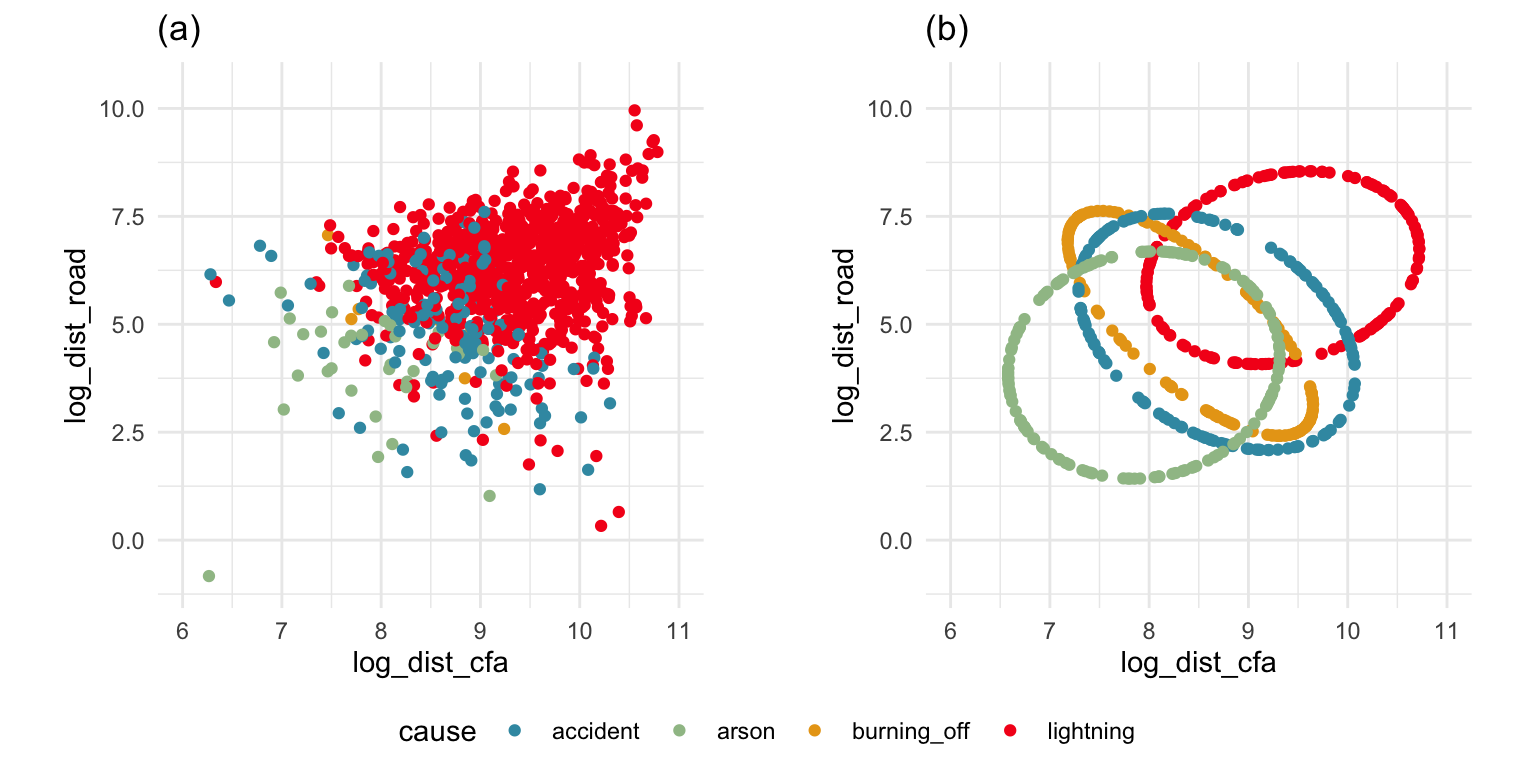
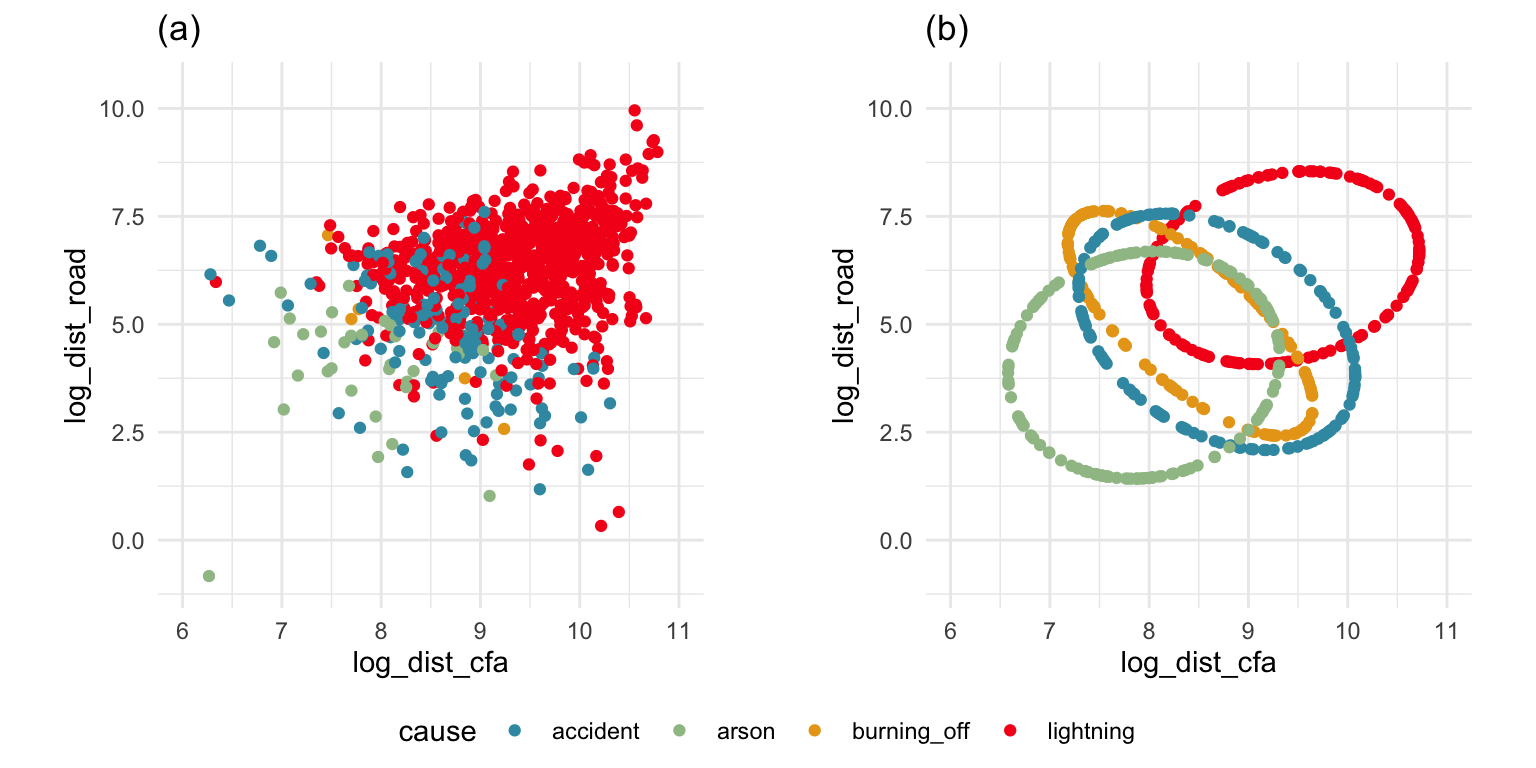
lda chapter processed

diff --git a/docs/LDA.html b/docs/LDA.html
@@ -218,7 +218,7 @@ div.csl-indent {
           <li class="sidebar-item">
   <div class="sidebar-item-container"> 
   <a href="./brush-and-spin.html" class="sidebar-item-text sidebar-link">
- <span class="menu-text"><span class="chapter-number">7</span>&nbsp; <span class="chapter-title">Spin and brush approach</span></span></a>
+ <span class="menu-text"><span class="chapter-number">7</span>&nbsp; <span class="chapter-title">Spin-and-brush approach</span></span></a>
   </div>
 </li>
           <li class="sidebar-item">
@@ -390,7 +390,7 @@ div.csl-indent {
   
 
 </header><p>Linear discriminant analysis (LDA) dates to the early 1900s. It’s one of the most elegant and simple techniques for both modeling separation between groups, and as an added bonus, producing a low-dimensional representation of the differences between groups. LDA has two strong assumptions: the groups are samples from multivariate normal distributions, and each have the same variance-covariance. If the latter assumption is relaxed, a slightly less elegant solution results from quadratic discriminant analysis.</p>
-<p>Useful explanations can be found in <span class="citation" data-cites="VR02">Venables &amp; Ripley (<a href="references.html#ref-VR02" role="doc-biblioref">2002a</a>)</span> and <span class="citation" data-cites="Ri96">Ripley (<a href="references.html#ref-Ri96" role="doc-biblioref">1996</a>)</span>. A good general treatment of parametric methods for supervised classification can be found in <span class="citation" data-cites="JW02">R. A. Johnson &amp; Wichern (<a href="references.html#ref-JW02" role="doc-biblioref">2002</a>)</span> or another similar multivariate analysis textbook. It’s also useful to know that hypothesis testing for the difference in multivariate means using multivariate analysis of variance (MANOVA) has similar assumptions to LDA. Also model-based clustering assumes that each cluster arises from a multivariate normal distribution, and is related to LDA. The methods described here can be used to check these assumptions when applying these methods, too.. </p>
+<p>Useful explanations can be found in <span class="citation" data-cites="VR02">Venables &amp; Ripley (<a href="references.html#ref-VR02" role="doc-biblioref">2002a</a>)</span> and <span class="citation" data-cites="Ri96">Ripley (<a href="references.html#ref-Ri96" role="doc-biblioref">1996</a>)</span>. A good general treatment of parametric methods for supervised classification can be found in <span class="citation" data-cites="JW02">R. A. Johnson &amp; Wichern (<a href="references.html#ref-JW02" role="doc-biblioref">2002</a>)</span> or another similar multivariate analysis textbook. It’s also useful to know that hypothesis testing for the difference in multivariate means using multivariate analysis of variance (MANOVA) has similar assumptions to LDA. Also model-based clustering assumes that each cluster arises from a multivariate normal distribution, and is related to LDA. The methods described here can be used to check these assumptions when applying these methods, too. </p>
 <div class="info">
 <p>Because LDA is a parametric model it is important to check that the assumptions are reasonable:</p>
 <ul>
@@ -407,11 +407,11 @@ div.csl-indent {
 <p><span class="math display">\[W =
 \sum_{k=1}^g\sum_{i=1}^{n_k}
 (X_{ki}-\bar{X}_k)(X_{ki}-\bar{X}_k)^\top\]</span></p>
-<p>which measures the variation of values around each class mean. The linear discriminant space is generated by computing the eigenvectors (canonical coordinates) of <span class="math inline">\(W^{-1}B\)</span>, and this is the <span class="math inline">\((g-1)\)</span>-D space where the group means are most separated with respect to the pooled variance-covariance.</p>
+<p>which measures the variation of values around each class mean. The linear discriminant space is generated by computing the eigenvectors (canonical coordinates) of <span class="math inline">\(W^{-1}B\)</span>, and this is the <span class="math inline">\((g-1)\)</span>-D space where the group means are most separated with respect to the pooled variance-covariance. For each class we compute</p>
 <p><span class="math display">\[
 \delta_k(x) = (x-\mu_k)^\top W^{-1}\mu_k + \log \pi_k
 \]</span></p>
-<p>where <span class="math inline">\(\pi_k\)</span> is a prior probability for class <span class="math inline">\(k\)</span> that might be based on unequal sample sizes, or cost of misclassification. The LDA classifier rule is to <em>assign a new observation to the class with the largest value</em>.</p>
+<p>where <span class="math inline">\(\pi_k\)</span> is a prior probability for class <span class="math inline">\(k\)</span> that might be based on unequal sample sizes, or cost of misclassification. The LDA classifier rule is to <em>assign a new observation to the class with the largest value</em> of <span class="math inline">\(\delta_k(x)\)</span>.</p>
 <p>We can fit an LDA model using the <code><a href="https://rdrr.io/pkg/MASS/man/lda.html">lda()</a></code> function from the <code>MASS</code> package. Here we have used the <code>penguins</code> data, assuming equal prior probability, to illustrate.</p>
 <div class="cell">
 <div class="sourceCode" id="cb1"><pre class="downlit sourceCode r code-with-copy"><code class="sourceCode R"><span><span class="kw"><a href="https://rdrr.io/r/base/library.html">library</a></span><span class="op">(</span><span class="va"><a href="https://dplyr.tidyverse.org">dplyr</a></span><span class="op">)</span></span>
@@ -725,7 +725,15 @@ bm 0.18 0.20 0.16 0.31</code></pre>
 </div>
 </div>
 </div>
-<p></p><figcaption class="figure-caption">Figure&nbsp;14.5: Tour of penguins data, pooled variance-covariance ellipse overlaid. We can see that the pooled variance-covariance is a reasonable estimate of the spread of the data.</figcaption><p></p>
+<div class="quarto-layout-row quarto-layout-valign-top">
+<div class="quarto-layout-cell" style="flex-basis: 50.0%;justify-content: center;">
+<p>Tour of penguins data, pooled variance-covariance ellipse overlaid. We can see that the pooled variance-covariance is a reasonable estimate of the spread of the data.</p>
+</div>
+<div class="info quarto-layout-cell" style="flex-basis: 50.0%;justify-content: center;">
+<p>To visually confirm that we can assume equal variance-covariance matrices for all groups we can can simulate points on the ellipses derived from the pooled estimate and compare them to the data distributions. If there are clear differences the LDA model cannot capture the structure in the data and should not be used.</p>
+</div>
+</div>
+<p></p><figcaption class="figure-caption">Figure&nbsp;14.5: <strong>?(caption)</strong></figcaption><p></p>
 </figure>
 </div>
 </section><section id="examining-results" class="level2" data-number="14.3"><h2 data-number="14.3" class="anchored" data-anchor-id="examining-results">
@@ -818,7 +826,7 @@ bm 0.18 0.20 0.16 0.31</code></pre>
 </section><section id="exercises" class="level2 unnumbered"><h2 class="unnumbered anchored" data-anchor-id="exercises">Exercises</h2>
 <ol type="1">
 <li>For the <code>simple_clusters</code> compute the lda model, and make a plot of the data, with points coloured by the class. Overlay variance-covariance ellipses, and a <span class="math inline">\(+\)</span> indicating the sample mean for each class. Is it reasonable to assume that the two classes are sampled from populations with the same variance-covariance?</li>
-<li>Examine the clusters corresponding to the classes in the <code>clusters</code> data set, using a tour. Based on the shape of the data is the assumption of equal variance-coviance reasonable?</li>
+<li>Examine the clusters corresponding to the classes in the <code>clusters</code> data set, using a tour. Based on the shape of the data is the assumption of equal variance-covariance reasonable?</li>
 <li>Examine the pooled variance-covariance for the <code>clusters</code> data, overlaid on the data in a tour on the 5D. Does it fit the variance of each cluster nicely?</li>
 <li>Fit an LDA model to the <code>simple_clusters</code> data. Examine the boundaries produced by the model, in 2D.</li>
 <li>Fit an LDA model to the <code>clusters</code> data. Examine the boundaries produced by the model in 5D.</li>
